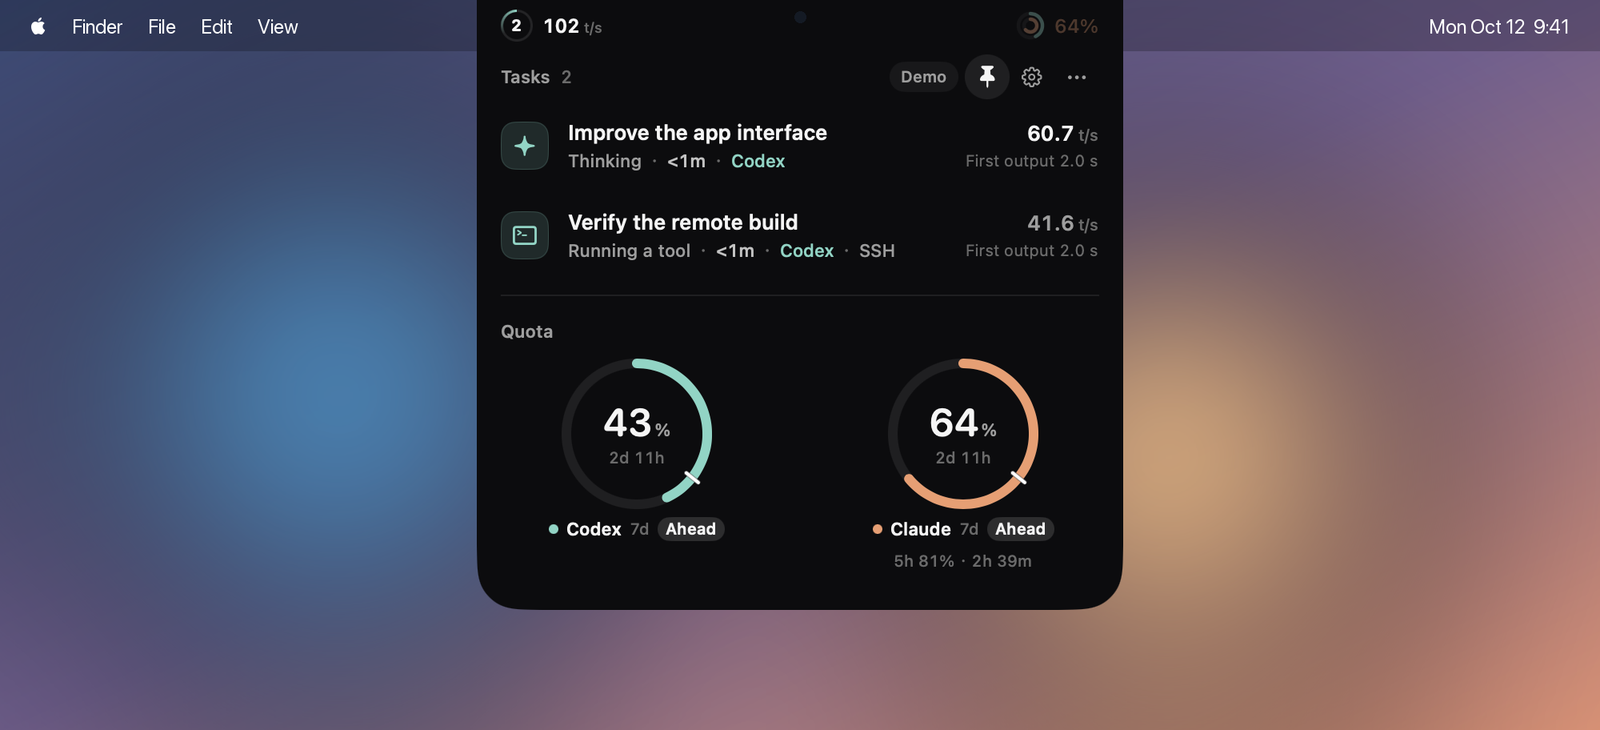
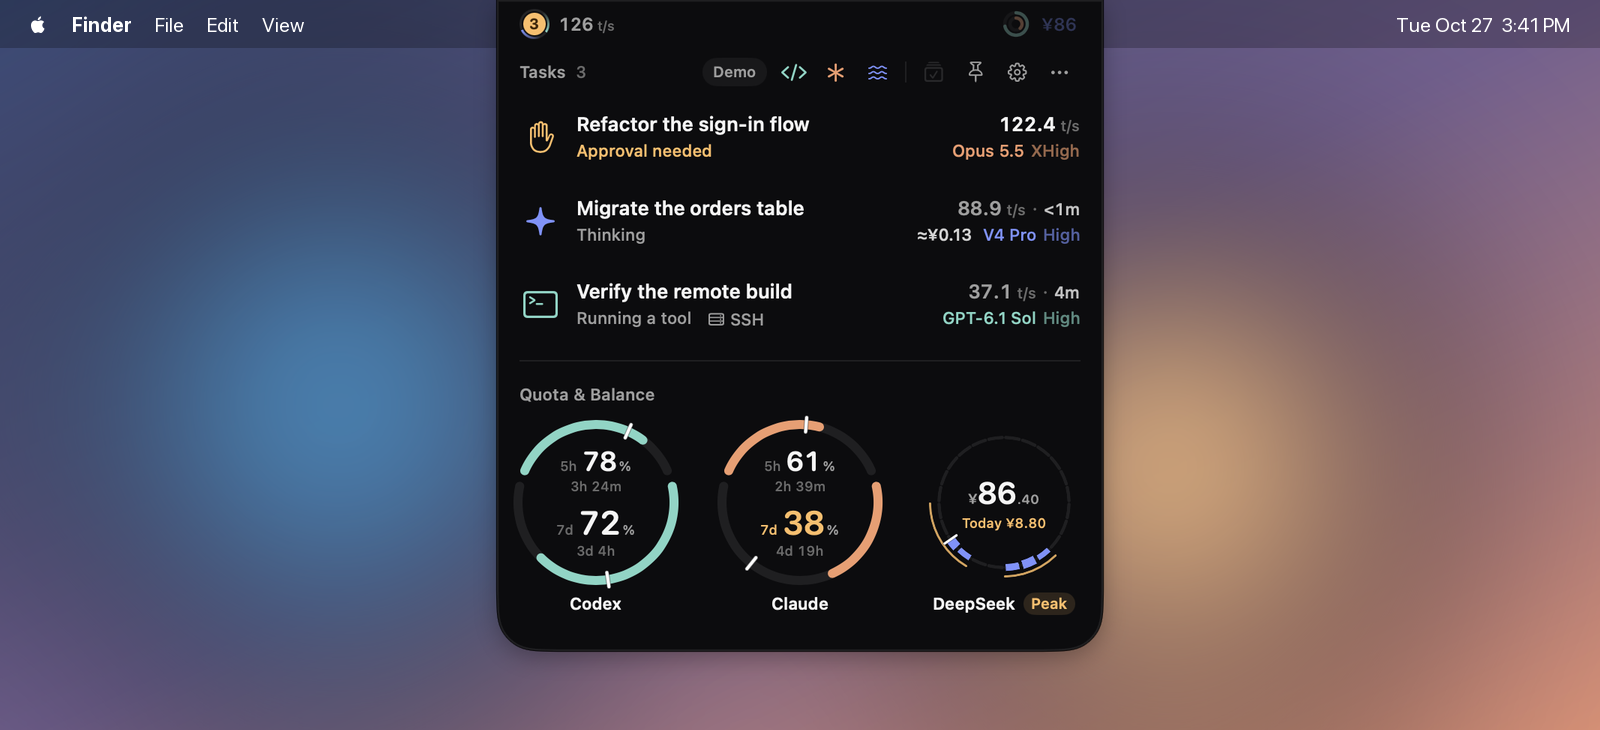
Refresh the README demo and screenshots for 4.0
Re-recorded from the 4.0.0 demo build with sample data:
- The demo now has a Claude task waiting for approval, a Codex task on
  SSH and a DeepSeek task with its turn cost, above the Codex and
  Claude rings and the DeepSeek day dial.
- The collapsed bar shows the DeepSeek balance.
- The Collapsed Bar settings, the welcome guide (4.0, with the DeepSeek
  card), the guide's expanded island and the social preview are updated.

A new DeepSeek-only panel image goes in the README and the user guide.
Image descriptions name all three services.

diff --git a/docs/guide.md b/docs/guide.md
@@ -24,7 +24,7 @@ The first time you open Codex Pacer 4, or the first launch after upgrading from 
 1. **Meet the island** labels the parts of the collapsed bar, shows the three badge states and demonstrates hover to expand.
 2. **Choose what to follow** turns the Codex, Claude and DeepSeek modules on or off, shows whether each one is ready, and offers shortcuts to customize the collapsed bar, turn on notifications and open Pacer at login.
 
-![Step 2 of the welcome guide: Codex and Claude cards with their own switches, then Customize the Collapsed Bar, System Notifications and Open at Login](assets/welcome-services.png)
+![Step 2 of the welcome guide: Codex, Claude and DeepSeek cards with their own switches, then Customize the Collapsed Bar, System Notifications and Open at Login](assets/welcome-services.png)
 
 Each module is independent. Pacer turns a module on automatically when it finds that service installed; once you flip a switch, your choice sticks. You can change it any time in **Settings → Codex**, **Settings → Claude** or **Settings → DeepSeek**, and reopen the guide from **Settings → Help**.
 
@@ -49,7 +49,7 @@ Until you choose otherwise, the bar sits around the camera on a display with a n
 
 ## The expanded island
 
-![The expanded island with two tasks and the Codex and Claude quota rings](assets/hero.png)
+![The expanded island: a Claude task waiting for approval at the top, a DeepSeek task with its estimated cost and a Codex task on SSH, above the Codex and Claude quota rings and the DeepSeek day dial](assets/hero.png)
 
 **Hover** over the bar to expand it and **move away** to collapse it. Click the top, or the pin button, to keep it open; press Esc to close it.
 
@@ -85,6 +85,8 @@ In Split Ring, each service gets one ring. When it reports a 5-hour limit, the s
 DeepSeek has a balance instead of quota windows, so its ring is a **day dial**: today on a 24-hour face with midnight at the top. Each hour's segment gets thicker the more that hour cost, the white tick is now, and amber arcs outside the dial mark the peak hours, when DeepSeek charges double (weekdays 09:00–12:00 and 14:00–18:00 Beijing time, shown in your time zone). The balance sits in the middle, white normally, amber when low, red when used up and gray when it could not be updated, with today's spend below it. **Peak** appears beside the name while prices are doubled, and a short runway such as **~2 d** replaces it when the balance would run out within three days. With two or three services on, the section is called **Quota & Balance**.
 
 With only DeepSeek on, the dial sits on the left and three groups sit beside it: **Now** (the current price and when it changes), **Today** (spend so far against your usual spend by this time) and **Balance** (how many days it lasts at your recent average, and the platform's token estimate when signed in on the web). Below them, one bar per day for the last week splits spend into off-peak and peak, with the dashed line at your daily average and how much moving peak spend off-peak would have saved.
+
+![DeepSeek alone: the day dial beside Now, Today and Balance, above the week of off-peak and peak spend](assets/deepseek.png)
 
 If quota cannot be read, the ring says why and offers a retry. Hover over a ring for the source and last update. Quota history, credits and banked resets are in **Settings → Codex** and **Settings → Claude**.
 

diff --git a/docs/guide.zh-CN.md b/docs/guide.zh-CN.md
@@ -24,7 +24,7 @@
 1. **认识灵动岛**：标注折叠栏的各个部分，展示徽标的三种状态，并演示悬停展开。
 2. **选择要追踪的服务**：分别开关 Codex、Claude 与 DeepSeek 模块，查看是否已就绪，并可前往自定义折叠栏、打开系统通知或设置登录时打开。
 
-![入门引导第 2 步：Codex 与 Claude 卡片各有开关，下方是自定义折叠栏、系统通知和登录时打开](assets/welcome-services.zh-CN.png)
+![入门引导第 2 步：Codex、Claude 与 DeepSeek 卡片各有开关，下方是自定义折叠栏、系统通知和登录时打开](assets/welcome-services.zh-CN.png)
 
 各模块互不影响。检测到某个服务已安装时，Pacer 会自动开启对应模块；你手动拨动开关后，会一直按你的选择来。之后可在“设置 → Codex”“设置 → Claude”或“设置 → DeepSeek”中修改，也可以在“设置 → 帮助”中再次打开引导。
 
@@ -49,7 +49,7 @@
 
 ## 展开的灵动岛
 
-![展开的灵动岛：两个任务，下方是 Codex 与 Claude 的额度圆环](assets/hero.zh-CN.png)
+![展开的灵动岛：最上方是等待审批的 Claude 任务，其后是显示估算花费的 DeepSeek 任务和 SSH 上的 Codex 任务，下方是 Codex 与 Claude 的额度圆环和 DeepSeek 日环](assets/hero.zh-CN.png)
 
 把鼠标**悬停**在折叠栏上即可展开，**移开**后自动收起。点击顶部或固定按钮可以保持展开；按 Esc 收起。
 
@@ -85,6 +85,8 @@
 DeepSeek 没有额度窗口，按余额扣费，所以它的环是一个**日环**：今天的 24 小时钟面，零点在顶部。每个小时一段，花得越多越粗；白色刻度是现在；钟面外侧的琥珀色弧线是高峰时段，单价是平时的两倍（北京时间工作日 09:00–12:00、14:00–18:00，已换算为本机时区）。中间是余额：平时白色，偏低时琥珀色，不足时红色，无法更新时灰色；下方是今日花费。处于高峰时名称旁显示“高峰”；余额按近期用量 3 天内会用完时，改为“约 2 天”这样的剩余天数。开启两个或三个服务时，这一区域的标题是“额度与余额”。
 
 只开启 DeepSeek 时，日环在左侧，右侧是三组：**现在**（当前价格和下次变价时间）、**今天**（今天已花多少，与平时同一时刻相比）、**余额**（按近期日均还能用几天，网页登录时还有平台估算的 token 数）。下方每天一根柱，分为空闲时段和高峰时段的花费，虚线是日均花费，并算出把高峰花费挪到空闲时段大约能省多少。
+
+![只开启 DeepSeek：日环右侧是现在、今天和余额三组，下方是近 7 天按空闲和高峰拆分的花费](assets/deepseek.zh-CN.png)
 
 无法读取额度时，圆环会说明原因并提供重试。悬停圆环可查看数据来源和更新时间。额度历史、Credit 和重置券在“设置 → Codex”和“设置 → Claude”中查看。
 

diff --git a/README.md b/README.md
@@ -22,13 +22,13 @@
   &nbsp;·&nbsp; <a href="README.zh-CN.md">简体中文</a>
 </p>
 
-![Codex Pacer at the notch, with sample data: hovering expands three running Codex and Claude tasks, each with its model and reasoning effort, above the 5-hour and 7-day quota rings; an approval request moves to the top, and the collapsed badge stays amber until it is handled](docs/assets/demo.webp)
+![Codex Pacer at the notch, with sample data: hovering expands three running tasks from DeepSeek Harness, Claude Code and Codex, each with its model and reasoning effort and the DeepSeek turn's estimated cost, above the Codex and Claude quota rings and the DeepSeek day dial; an approval request moves to the top, and the collapsed badge stays amber until it is handled](docs/assets/demo.webp)
 
 ## At a glance
 
 Collapsed, Pacer is a slim bar around the camera that tells you how your agents are doing without opening anything.
 
-![The collapsed bar: a task badge and output speed on the left of the camera, quota rings and value on the right](docs/assets/collapsed-bar.png)
+![The collapsed bar: a task badge and output speed on the left of the camera, quota rings and the DeepSeek balance on the right](docs/assets/collapsed-bar.png)
 
 | | What it tells you |
 | --- | --- |
@@ -46,6 +46,8 @@ Collapsed, Pacer is a slim bar around the camera that tells you how your agents 
 - **Quota with pace.** Each service has one ring: a shorter upper arc for 5 hours and a longer lower arc for 7 days, each with its own remaining quota, reset countdown and white pace tick. Accounts without a 5-hour limit get a weekly gauge that opens at the bottom. With one service on, its pace, reset time and a forecast sit beside the ring. Switch to the original Classic layout in **Settings → Appearance → Expanded Quota**.
 - **A day dial for DeepSeek.** DeepSeek charges a balance instead of quota windows, so its ring is today on a 24-hour face: what each hour cost, the doubled-price peak hours and the balance in the middle. Each DeepSeek task shows its turn's estimated cost, and with DeepSeek alone the panel adds how long the balance lasts and the last week's spend split by price. The balance comes from a DeepSeek platform sign-in in Pacer's own window or an API key, whichever matches how Harness signs in.
 - **History when you want it.** Settings keeps each service's quota curve for the current cycle, plus credits and banked resets when the service reports them.
+
+![DeepSeek alone, with sample data: the day dial with the balance and today's spend beside the current price, today against a usual day and how long the balance lasts, above a week of spend split into off-peak and peak](docs/assets/deepseek.png)
 
 ## Make it yours
 

diff --git a/README.zh-CN.md b/README.zh-CN.md
@@ -22,13 +22,13 @@
   &nbsp;·&nbsp; <a href="README.md">English</a>
 </p>
 
-![Codex Pacer 在刘海处（演示数据）：悬停展开三个运行中的 Codex 与 Claude 任务，各自显示模型和推理强度，下方是 5 小时与 7 天额度圆环；审批请求排到最前，收起后徽标保持琥珀色直到处理完成](docs/assets/demo.zh-CN.webp)
+![Codex Pacer 在刘海处（演示数据）：悬停展开 DeepSeek Harness、Claude Code 和 Codex 三个运行中的任务，各自显示模型和推理强度，DeepSeek 任务还显示本回合估算花费；下方是 Codex 与 Claude 的额度圆环和 DeepSeek 日环；审批请求排到最前，收起后徽标保持琥珀色直到处理完成](docs/assets/demo.zh-CN.webp)
 
 ## 一眼看清
 
 折叠时，Pacer 是摄像头两侧的一条细栏，不用展开就知道代理们进展如何。
 
-![折叠栏：摄像头左侧是任务徽标和输出速度，右侧是额度圆环和数值](docs/assets/collapsed-bar.zh-CN.png)
+![折叠栏：摄像头左侧是任务徽标和输出速度，右侧是额度圆环和 DeepSeek 余额](docs/assets/collapsed-bar.zh-CN.png)
 
 | | 含义 |
 | --- | --- |
@@ -46,6 +46,8 @@
 - **额度带配速。** 每个服务一个圆环：较短的上弧显示 5 小时，较长的下弧显示 7 天，各自保留剩余额度、重置倒计时和白色配速刻度。没有 5 小时限制时显示底部开口的每周圆环。只开启一个服务时，配速、重置时刻和预计显示在圆环右侧。可在“设置 → 外观 → 展开态额度”切回原版经典样式。
 - **DeepSeek 日环。** DeepSeek 按余额扣费，没有额度窗口，所以它的环是今天的 24 小时钟面：每个小时花了多少、单价翻倍的高峰时段，中间是余额。每个 DeepSeek 任务显示这一回合的估算花费；只开启 DeepSeek 时，面板还会显示余额够用几天，以及按价格拆分的近 7 天花费。余额按 Harness 的登录方式，通过 Pacer 窗口中的 DeepSeek 开放平台登录或 API Key 读取。
 - **需要时再看历史。** 设置里保留每个服务当前周期的额度曲线；服务提供时，还能看到 Credit 和重置券。
+
+![只开启 DeepSeek（演示数据）：日环中间是余额和今日花费，右侧是当前价格、今天与平时相比、余额够用几天，下方是按空闲和高峰拆分的近 7 天花费](docs/assets/deepseek.zh-CN.png)
 
 ## 按你的习惯来
 
